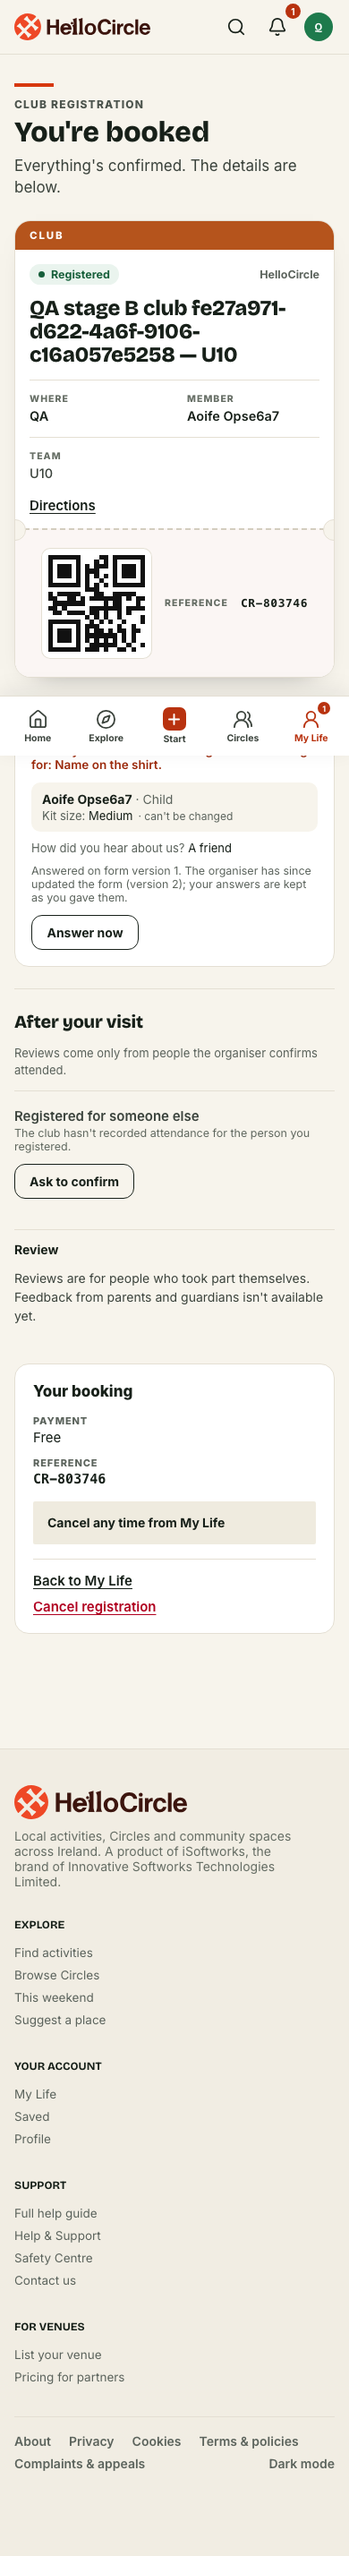
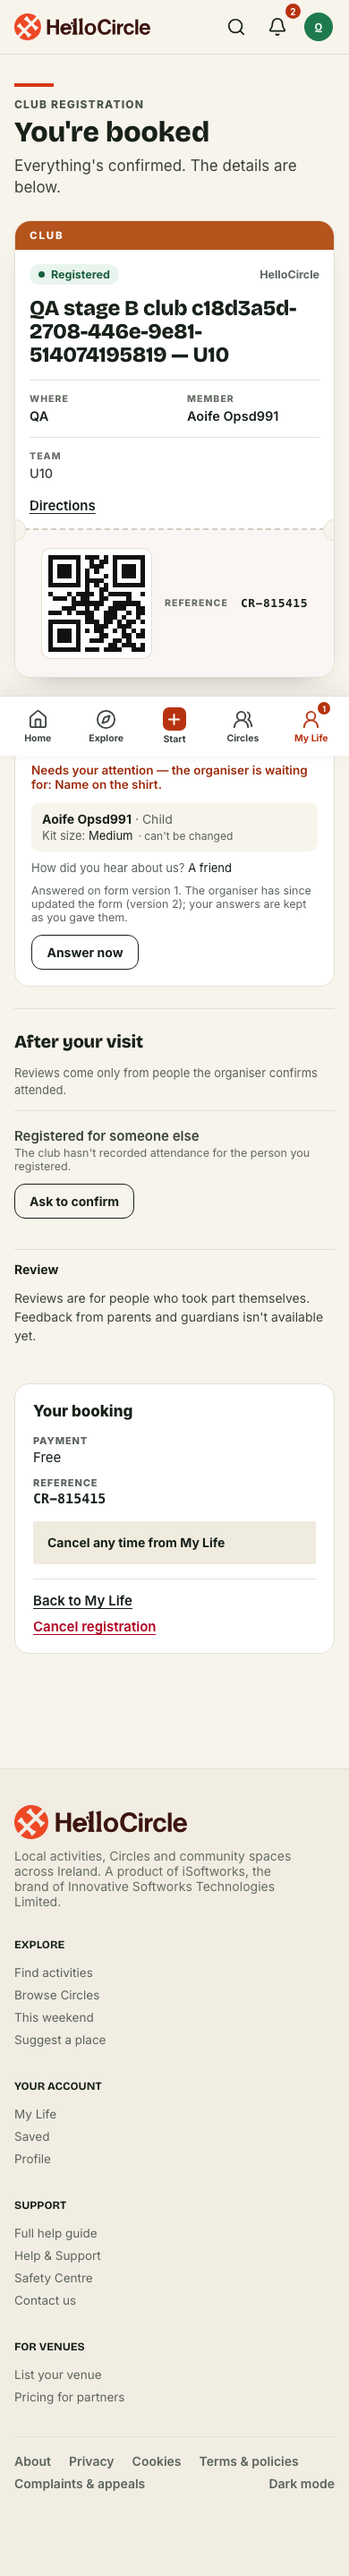
docs(participation): doc 21 — Phases I/J/M release batch, mobile compatibility, partial validation

diff --git a/docs/participation-expansion/21-phases-i-j-m-release.md b/docs/participation-expansion/21-phases-i-j-m-release.md
@@ -1,0 +1,117 @@
+# 21 · Phases I, J and M: release batch (resident, vendor, compatibility)
+
+**Date:** 2026-10-30.
+**Repositories:**
+- web `hello-circle`, branch `feature/participation-phase2`;
+- mobile `hello-circle-mobile`, branch `feature/registration-forms`.
+
+Both are committed locally; nothing is pushed or deployed.
+**Builds on:** doc 20 (the first Phases I–M build). This batch closes the gaps against the release brief and adds the mobile app.
+
+## 1. Current-state audit (before this batch)
+| Brief item | State after doc 20 | This batch |
+|---|---|---|
+| **I:** submitted answers, historical wording, attendees, controlled editing, check-in status | Built for all four order types (`/api/orders/:source/:ref`, `BookingPeople`) | — |
+| **I:** registration status | Only the "needs attention" banner | **Status line:** "Needs your answers", "Registration complete" (with or without "you can still change answers"), or "Cancelled — answers kept for the record" |
+| **I:** booking instructions | Existing "get ready" sections (experiences, venues, programmes, games) | Unchanged |
+| **I:** empty and error states | Empty: the section is hidden when there's nothing to show. **A failed load silently showed nothing** | **Error state** with "Try again". A booking that isn't yours still reads as not found |
+| **J:** unified record, attendees, answers by role, check-in summary, status, actions | Built (`/vendor/orders/:source/:ref`, 70/30) | — |
+| **J:** search and filtering | Experience attendees could be searched. Club, programme and hall answers were a flat list of orders *with answers only* | **Every registration is listed** with what it's still missing. Search by name or reference; filter by waiting for answers, complete or cancelled. A "N waiting for answers" count |
+| **M:** Make It Happen | Gated: venues with forms excluded, confirm refused (`form_required`) | **Confirm now validates and stores** a venue's answers when they're sent. Venues with forms stay excluded from its search (its web and app screens don't ask questions yet), and it **stays paused** |
+| **M:** mobile | The app sent no form, so it got `form_required` once a listing published one | **The app shows and sends the form in all four booking flows** (below) |
+
+## 2. Resident screens (web)
+- **`/bookings/:kind/:ref`**: the registration section for club registrations, programme enrolments, hall bookings and experiences. It shows:
+  - **Status line**, plus the "needs attention" banner when a required answer is missing.
+  - **People:**
+    - an experience's group, with door check-in per person;
+    - a club's registrant;
+    - a programme's participant, with sessions attended.
+  - **Answers:** with the question as it was asked, "Answered on form version N", and "can't be changed" on locked answers.
+  - **Actions:** "Answer now" / "Change answers" within the edit window, or the reason they can't be changed.
+  - **Errors:** "We couldn't load your registration details just now. Your booking itself isn't affected." with **Try again**.
+
+## 3. Vendor screens (web)
+- **Record page** `/vendor/orders/:source/:ref` (doc 20 §3): role-based answers, actions and history.
+- **Listing → Questions tab** (clubs, halls) and **programme page → Enrolment questions:** "Registrations and answers · N waiting for answers", with:
+  - search by name or reference;
+  - a Show filter: All, Waiting for answers, Complete, Cancelled;
+  - each registration links to its record and shows "Waiting for: …" or its answers;
+  - the CSV export (doc 20 §5).
+- **The hall booking record** shows its answers section.
+- **The experience Attendees tab** is unchanged (it already had search), and its names link to the record.
+
+## 4. Compatibility matrix
+| Channel | Experiences / events | Club registration | Programme enrolment | Hall booking | Published form can be bypassed? |
+|---|---|---|---|---|---|
+| Web | Shows and validates the form; reloads on a stale or missing form | Same | Same | Same | No |
+| **Mobile app** (`feature/registration-forms`) | **Shows and sends** (per person and once per booking) | **Shows and sends** (the registrant) | **Shows and sends** (the participant; a child by date of birth) | **Shows and sends** (once per booking) | No. The server refuses a missing (`form_required`) or stale (`questions_changed`) form, and the app reloads and asks again |
+| Older app builds (before this branch ships) | Refused with a clear `form_required` once a form is published; unchanged while there's none | Same | Same | Same | No |
+| Make It Happen (paused; web and app) | n/a | n/a | n/a | Venues with forms are not offered. Confirm refuses them without answers and stores them when given | No |
+| Pass redemption, free trial, waitlist claim | Via the normal checkout | Same | n/a | n/a | No |
+| Games | Out of scope (resident-hosted, no organisation form) | | | | n/a |
+| Payments | No change to Stripe, pricing, webhooks or checkout agreements | | | | n/a |
+
+**Mobile implementation details:**
+- `src/registration/formQuestions.ts` holds the rules, mirroring web's `attendeeSlots.ts`:
+  - shown-when conditions;
+  - per-person questions by age;
+  - pre-filled answers;
+  - missing answers;
+  - programme adult or child from the date of birth.
+- `src/components/RegistrationQuestions.tsx` is the native form: text, long text, number, email, phone, date, pick one/several, buttons, tick box and information, with sections and "why we ask".
+- **Requests are unchanged** when a listing asks no questions.
+- **The app's copy of `@hello-circle/types` predates these types.** They live in `src/registration` until it is resynced (blocker 3).
+
+## 5. Security validation
+- **Organisation isolation:**
+  - records, answers, exports and reports for another organisation return 403 or 404;
+  - unknown order kinds return 404.
+- **Booking ownership:**
+  - the resident's registration matches by browser id or resident, plus the verified email for clubs and halls (the existing "my …" rule);
+  - anyone else gets 404;
+  - a reference can't be read as another type.
+- **Staff permissions:**
+  - answers are visible only to the listing's managers and the owner;
+  - **finance sees the record and the refund, not the answers (UI and API)**, and is refused the answers export;
+  - communications and analysts can't open records;
+  - check-in-only staff are refused records, reports and answers (the door screen is unchanged).
+- **Payment controls:** answers are checked before a place is held and stored in the order's transaction. Cancel and refund use the existing role-checked endpoints.
+- **Sensitive data:**
+  - the special-category switch stays locked;
+  - exports follow the field policy (never contact details or special categories);
+  - audit rows and notifications hold keys or counts only, never answers.
+
+## 6. Screenshots (`phase2-screenshots/`)
+| Screenshot | Shows |
+|---|---|
+| `config-30` | Resident needs answers (status "Needs your answers") |
+| `config-31` | Resident after answering ("Registration complete") |
+| `config-32` | Owner record |
+| `config-33` | Finance record (no answers, refund only) |
+| `config-34` | Reports |
+| `config-35` | The club's registrations with search and the Complete filter |
+| `config-20`…`25` | (Phase H) Builder and resident forms |
+
+## 7. Test results
+See §9.
+
+## 8. Outstanding blockers
+1. **Mobile release.** The app branch must be reviewed, built and shipped (EAS) before partners publish forms on listings app users book. Until then, those users get a clear refusal.
+2. **Mobile lockfile.** The mobile repo had no lockfile. `npm install` resolved fresh versions to run its checks, and the generated `package-lock.json` is left **uncommitted** for the owner to decide.
+3. **Shared types drift.** The app's `packages/types` is far behind the web copy (≈1,500 vs ≈3,000 lines). The form types live locally in the app until a deliberate resync.
+4. **Make It Happen** stays paused. Its screens need the venue's questions before venues with forms can be offered (the server path is ready).
+5. **Mobile: answers after booking.** The app's My Life doesn't yet show or edit registration answers; the web booking page does.
+6. **Policy decisions** from doc 20 §9 still stand: reminders switch, edit windows, finance access, notice recipients, retention.
+
+## 9. Validation results (2026-10-30)
+| Check | Result |
+|---|---|
+| Web type checks (server, client, QA harness) and production build | pass |
+| Web server suite (disposable MySQL) | **149 files, 1,353 passed, 0 failed**, 23 skipped (live provider tests, off by design) |
+| Web client unit | **351 passed** |
+| Browser batch `booking-config-operations` (resident status, record by role, search/filter, reports) | **passed** |
+| Browser batch `booking-config-universal-forms` | passed (Phase H) |
+| Mobile type check, lint and Jest | pass, **41 tests** (6 new) |
+
+**Deferred by the owner until all phases are complete:** the full browser regression (all 210 batches, including Stripe TEST, booking, security-gate and authorization). It was started and stopped before the browser batches ran, so the code under development could keep changing.
